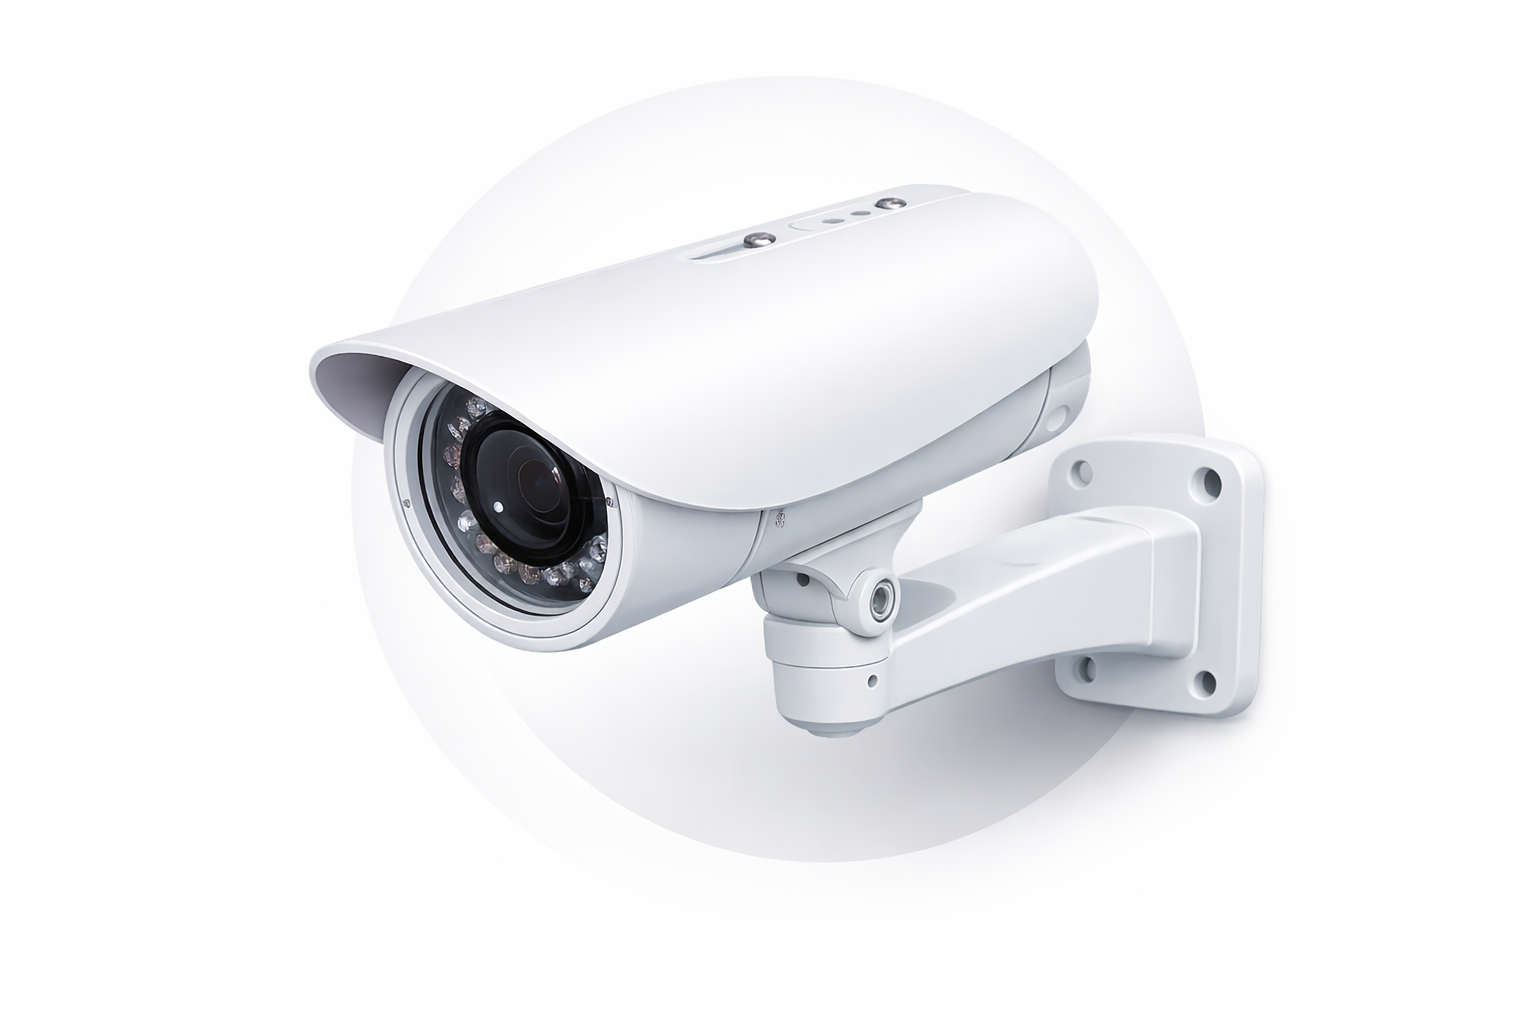
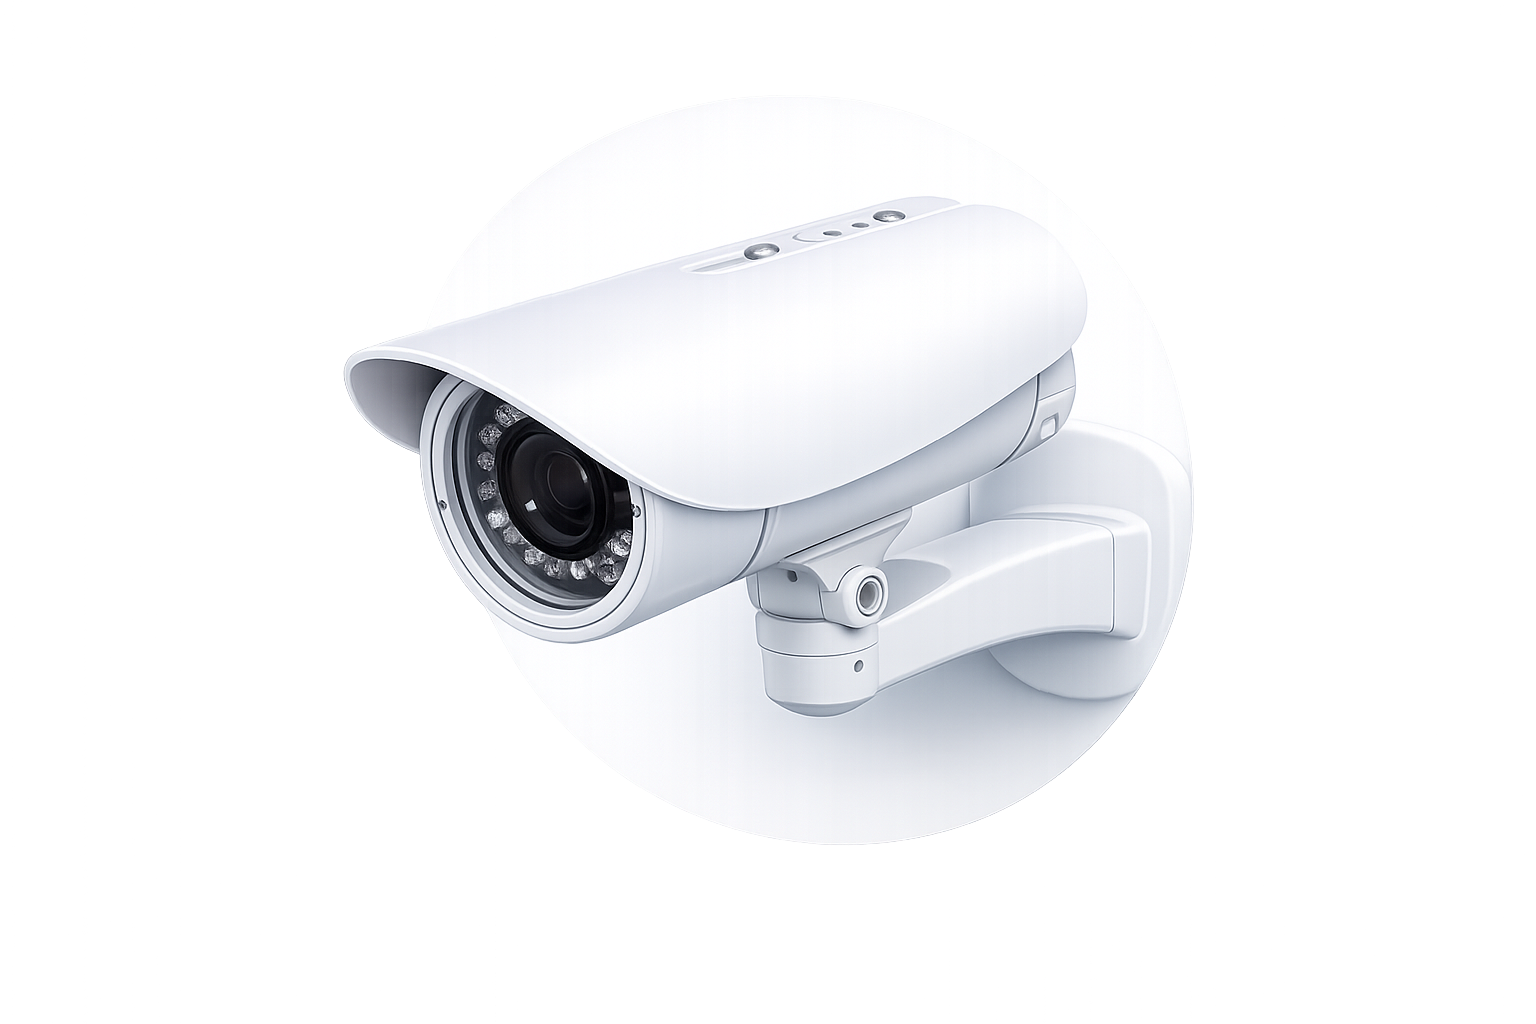
Added new images and fixed the carousel

diff --git a/index.html b/index.html
@@ -21,13 +21,13 @@
     <meta name="description" content="t The Bark Bungalow, based in Sully, Vale of Glamorgan, we pride ourselves on offering a safe and loving home-from-home experience for your furry companion. Jimmy, Sophie, and our own dog Ralphy form a dedicated, dog-loving team committed to ensuring your pet feels right at home.">
 </head>
 
-<body>
+<body class="bg-white">
     <main class="">
         <header class="shadow mb-12">
-            <nav class="flex flex-wrap items-center justify-between w-full lg:py-4 md:py-0 py-2 px-4 text-lg text-gray-700 lg:container ">
+            <nav class="flex flex-wrap items-center justify-between w-full lg:py-4 md:py-4 py-2 px-4 text-lg text-gray-700 lg:container ">
                 <div class="md:p-1 p-4">
                     <a href="index.html">
-                        <img src="/img/ignissecure_logo_black_transparent_trimmed.png" class="md:w-40 w-32">
+                        <img src="/img/ignissecure_logo_black_transparent_trimmed.png" class="md:w-44 w-32">
                     </a>
                 </div>
                 
@@ -65,13 +65,13 @@
                 <div class="hidden md:flex md:items-center md:w-auto">
                     <ul class="flex justify-between lg:text-sm text-xs">
                         <li>
-                            <a class="md:p-4 py-2 block hover:text-purple-400" href="about-us.html">About Us</a>
+                            <a class="md:p-4 py-2 block hover:underline" href="about-us.html">About Us</a>
                         </li>
                         <li>
-                            <a class="md:p-4 py-2 block hover:text-purple-400" href="dog-walking.html">Our Services</a>
+                            <a class="md:p-4 py-2 block hover:underline" href="our-services.html">Our Services</a>
                         </li>
                         <li>
-                            <a class="md:p-4 py-2 block hover:text-purple-400" href="contact-us.html">Contact Us</a>
+                            <a class="md:p-4 py-2 block hover:underline" href="contact-us.html">Contact Us</a>
                         </li>
                     </ul>
                 </div>
@@ -80,8 +80,8 @@
          </header>
 
 
-        <section class="relative w-full bg-white flex items-center overflow-hidden px-6 md:px-12 lg:px-24 py-12 font-sans">
-            <div class="container mx-auto grid grid-cols-1 lg:grid-cols-2 gap-12 items-center">
+        <section class="relative w-full bg-white flex items-center overflow-hidden px-6 md:px-12 lg:px-24 lg:py-12 md:py-6 py-12 font-sans">
+            <div class="container mx-auto grid grid-cols-1 lg:grid-cols-2 lg:gap-12 gap-2 items-center">
                 <div class="z-10 order-2 lg:order-1 text-center lg:text-left">
                     <h1 class="text-3xl md:text-5xl lg:text-6xl font-black text-[#2D2A4A] leading-[1.1] tracking-tight uppercase">
                         Trusted Fire & <br />
@@ -90,7 +90,7 @@
                     </h1>
                     
                     <p class="mt-6 text-gray-400 text-sm md:text-base max-w-md mx-auto lg:mx-0 leading-relaxed">
-                        Helping Protect First Responders from Cancer. Helping Protect First Responders from Cancer. Helping Protect First.
+                        Delivering dependable solutions with a focus on quality and trust. Smart solutions. Built to last.
                     </p>
                 
                     <div class="mt-8 flex justify-center lg:justify-start">
@@ -103,26 +103,26 @@
                     </div>
                 </div>
 
-                <div class="relative order-1 lg:order-2 flex justify-center items-center py-12 lg:py-0">
+                <div class="relative order-1 lg:order-2 flex justify-center items-center">
                 
-                    <div class="absolute w-[280px] h-[280px] md:w-[400px] md:h-[400px] border border-gray-100 rounded-full"></div>
-                    <div class="absolute w-[220px] h-[220px] md:w-[320px] md:h-[320px] bg-gray-50/80 rounded-full"></div>
+                    <!-- <div class="absolute w-[280px] h-[280px] md:w-[400px] md:h-[400px] border border-gray-100 rounded-full"></div>
+                    <div class="absolute w-[220px] h-[220px] md:w-[320px] md:h-[320px] bg-gray-50/80 rounded-full"></div> -->
 
-                    <button class="absolute left-0 md:-left-4 z-20 w-10 h-10 md:w-14 md:h-14 bg-white rounded-full shadow-xl flex items-center justify-center text-gray-400 hover:text-primary transition-all border border-gray-50 active:scale-95">
+                    <button id="carousel-prev" class="absolute left-0 md:-left-4 z-20 w-10 h-10 md:w-14 md:h-14 bg-white rounded-full shadow-xl flex items-center justify-center hover:bg-secondary hover:text-white transition-all border border-gray-50 active:scale-95">
                         <svg xmlns="http://www.w3.org/2000/svg" fill="none" viewBox="0 0 24 24" stroke-width="2" stroke="currentColor" class="w-5 h-5">
                         <path stroke-linecap="round" stroke-linejoin="round" d="M10.5 19.5L3 12m0 0l7.5-7.5M3 12h18" />
                         </svg>
                     </button>
 
-                    <div class="relative z-10 w-full flex justify-center px-8 md:px-0">
-                        <img 
-                        src="img/camera.png" 
-                        alt="Security Camera" 
-                        class="w-full max-w-[320px] md:max-w-[450px] drop-shadow-2xl object-contain"
-                        />
+                    <div class="relative z-10 w-full overflow-hidden px-8 md:px-0">
+                        <div id="carousel-track" class="flex transition-transform duration-700 ease-in-out">
+                            <img src="img/camera.png" class="w-full lg:w-[750px] flex-shrink-0 drop-shadow-lg" />
+                            <img src="img/alarm2.png" class="w-full lg:w-[750px] flex-shrink-0 drop-shadow-lg" />
+                            <img src="img/keypad2.png" class="w-full lg:w-[750px] flex-shrink-0 drop-shadow-lg" />
+                        </div>
                     </div>
 
-                    <button class="absolute right-0 md:-right-4 z-20 w-10 h-10 md:w-14 md:h-14 bg-white rounded-full shadow-xl flex items-center justify-center text-primary hover:bg-gray-50 transition-all border border-gray-50 active:scale-95">
+                    <button id="carousel-next" class="absolute right-0 md:-right-4 z-20 w-10 h-10 md:w-14 md:h-14 bg-white rounded-full shadow-xl flex items-center justify-center hover:bg-secondary hover:text-white transition-all border border-gray-50 active:scale-95">
                         <svg xmlns="http://www.w3.org/2000/svg" fill="none" viewBox="0 0 24 24" stroke-width="2" stroke="currentColor" class="w-5 h-5">
                         <path stroke-linecap="round" stroke-linejoin="round" d="M13.5 4.5L21 12m0 0l-7.5 7.5M21 12H3" />
                         </svg>
@@ -132,12 +132,21 @@
             </div>
         </section>
 
-        <section class="border-t border-gray-200 py-12">
-            <div class="container mx-auto grid grid-cols-1 lg:grid-cols-2 gap-12 items-center">
-                <div class="z-10 order-2 lg:order-1 text-center lg:text-left">
-                    <h2 class="text-3xl md:text-5xl lg:text-6xl font-black text-[#2D2A4A] leading-[1.1] tracking-tight uppercase">
-                        Trusted Fire & Security Solutions Across South Wales & South West England
+        <section class="border-t border-[#d1d1d1] py-12">
+            <div class="container">
+                <div class="lg:text-left text-center">
+                    <h2 class="text-3xl md:text-5xl lg:text-6xl font-black text-[#2D2A4A] leading-[1.1] tracking-tight uppercase mb-65">
+                        Fire & Security Solutions for Homes & Businesses
                     </h2>
+                    <p class="mb-5">
+                        IgnisSecure specialises in the complete design, installation, commissioning, and aftercare of fire alarm systems, intruder alarms, CCTV surveillance, and integrated life safety systems for residential and commercial properties across South Wales and South West England.
+                    </p>
+                    <button href="aboutus.html" class="flex items-center gap-3 bg-secondary hover:bg-secondary-700 text-white px-8 py-4 rounded-md font-bold text-xs uppercase transition-all shadow-lg shadow-purple-900/20 group">
+                        About Us
+                        <svg xmlns="http://www.w3.org/2000/svg" fill="none" viewBox="0 0 24 24" stroke-width="2.5" stroke="currentColor" class="w-4 h-4 transition-transform group-hover:translate-x-1">
+                            <path stroke-linecap="round" stroke-linejoin="round" d="M13.5 4.5L21 12m0 0l-7.5 7.5M21 12H3" />
+                        </svg>
+                    </button>
                 </div>
             </div>
         </section>
@@ -152,6 +161,7 @@
 </body>
 <script src="https://code.jquery.com/jquery-3.7.1.js"></script>
 <script src="js/app.js"></script>
+<script src="js/carousel.js"></script>
 <script src="js/review-carousel.js"></script>
 
 </html>

diff --git a/js/carousel.js b/js/carousel.js
@@ -1,0 +1,79 @@
+document.addEventListener("DOMContentLoaded", () => {
+    const track = document.getElementById("carousel-track");
+    const prevBtn = document.getElementById("carousel-prev");
+    const nextBtn = document.getElementById("carousel-next");
+
+    let slides = Array.from(track.children);
+    const slideCount = slides.length;
+    let index = 1;
+    const intervalTime = 4000;
+
+    // Clone first & last slides
+    const firstClone = slides[0].cloneNode(true);
+    const lastClone = slides[slides.length - 1].cloneNode(true);
+
+    firstClone.id = "first-clone";
+    lastClone.id = "last-clone";
+
+    track.appendChild(firstClone);
+    track.insertBefore(lastClone, slides[0]);
+
+    slides = Array.from(track.children);
+
+    function getSlideWidth() {
+        return slides[0].offsetWidth;
+    }
+
+    function setPosition(animate = true) {
+        track.style.transition = animate ? "transform 0.7s ease-in-out" : "none";
+        track.style.transform = `translateX(-${index * getSlideWidth()}px)`;
+    }
+
+    // Initial position (real first slide)
+    setPosition(false);
+
+    function nextSlide() {
+        if (index >= slides.length - 1) return;
+        index++;
+        setPosition();
+    }
+
+    function prevSlide() {
+        if (index <= 0) return;
+        index--;
+        setPosition();
+    }
+
+    track.addEventListener("transitionend", () => {
+        if (slides[index].id === "first-clone") {
+            index = 1;
+            setPosition(false);
+        }
+
+        if (slides[index].id === "last-clone") {
+            index = slides.length - 2;
+            setPosition(false);
+        }
+    });
+
+    nextBtn.addEventListener("click", () => {
+        nextSlide();
+        resetAutoSlide();
+    });
+
+    prevBtn.addEventListener("click", () => {
+        prevSlide();
+        resetAutoSlide();
+    });
+
+    let autoSlide = setInterval(nextSlide, intervalTime);
+
+    function resetAutoSlide() {
+        clearInterval(autoSlide);
+        autoSlide = setInterval(nextSlide, intervalTime);
+    }
+
+    window.addEventListener("resize", () => {
+        setPosition(false);
+    });
+});

diff --git a/js/tailwind.config.js b/js/tailwind.config.js
@@ -21,6 +21,21 @@ tailwind.config = {
         900: '#320907',
       },
 
+      /* 🔵 Secondary – Trust / Security */
+      secondary: {
+        DEFAULT: '#002644',
+        50: '#E6ECF2',
+        100: '#C0D0E0',
+        200: '#99B3CC',
+        300: '#7397B8',
+        400: '#4D7AA3',
+        500: '#002644',
+        600: '#00223D',
+        700: '#001B30',
+        800: '#001423',
+        900: '#000D16',
+      },
+
       /* ⚫ Neutral – Text, backgrounds, UI */
       neutral: {
         50: '#F9FAFB',
